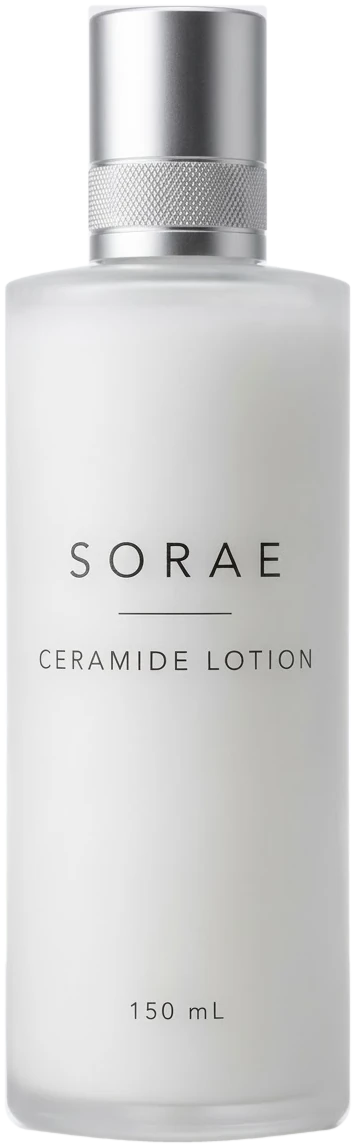
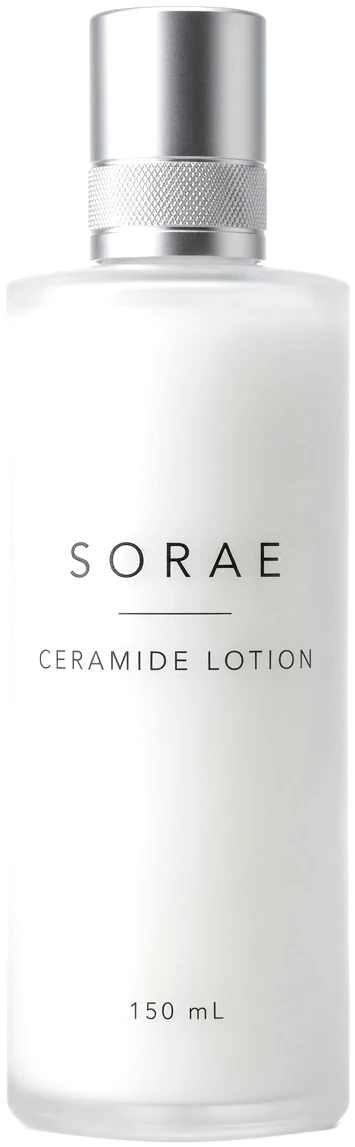
SORAE: ヒーローのボトルを明るく大きく、光と見出しの色で印象を強化
Claude-Session: https://claude.ai/code/session_011G5VfBtan1DrH8gQ92yT6T

diff --git a/works/lp-lotion/index.html b/works/lp-lotion/index.html
@@ -50,7 +50,7 @@ header nav{display:flex;gap:30px;font-size:11.5px;color:var(--ink2)}
 .hero .cta{margin-top:44px;display:flex;align-items:center;gap:20px;flex-wrap:wrap;opacity:0;transition:opacity 1.4s .9s}
 .hero .cta small{font-size:11.5px;color:var(--sub)}
 .bwrap{position:relative;display:flex;justify-content:center}
-.bwrap .btl{height:min(66vh,520px);width:auto;filter:drop-shadow(0 50px 40px rgba(80,100,160,.22));animation:fl 7s ease-in-out infinite;opacity:0;transform:translateY(40px);transition:opacity 1.6s .3s,transform 1.6s .3s}
+.bwrap .btl{position:relative;z-index:1;height:min(72vh,600px);width:auto;filter:drop-shadow(0 50px 40px rgba(80,100,160,.22));animation:fl 7s ease-in-out infinite;opacity:0;transform:translateY(40px);transition:opacity 1.6s .3s,transform 1.6s .3s}
 .on .bwrap .btl{opacity:1;transform:none}
 @keyframes fl{50%{translate:0 -14px}}
 .tags{position:absolute;inset:0}
@@ -145,11 +145,11 @@ footer .logo{font-size:16px;color:var(--ink);margin-bottom:6px}
 @media (prefers-reduced-motion:reduce){*{animation:none!important}.rv,.hero h1 span b,.hero p.lead,.hero .cta,.bwrap .btl{opacity:1!important;transform:none!important;transition:none!important}}
 @media (max-width:860px){
  .sample{left:auto;right:14px;top:22px;bottom:auto;padding:4px 10px}.sample span{display:none}
- .hero h1{font-size:clamp(24px,7.4vw,32px);letter-spacing:.1em}.hero h1 span b{white-space:nowrap}
+ .hero h1{font-size:clamp(26px,7.9vw,34px);letter-spacing:.08em}.hero h1 span b{white-space:nowrap}
  .w{padding:0 24px}header{top:28px}header .w{padding:0 24px}header nav{display:none}
  .hero .w{grid-template-columns:1fr;text-align:center;padding-top:100px;padding-bottom:70px}
  .hero p.lead{margin-left:auto;margin-right:auto}.hero .cta{justify-content:center}
- .bwrap{order:-1;margin-bottom:10px}.bwrap .btl{height:300px;width:auto}
+ .bwrap{order:-1;margin-bottom:10px}.bwrap .btl{height:min(52vh,380px);width:auto}
  .tags span{font-size:10px;padding:5px 11px}.tags span:nth-child(1){left:2%}.tags span:nth-child(2){right:2%}
  .ripple{right:50%;top:30%;width:340px;height:340px;margin:-170px -170px 0 0}
  section{padding:110px 0}.sh{margin-bottom:50px}
@@ -246,6 +246,11 @@ footer .logo{font-size:16px;color:var(--ink);margin-bottom:6px}
 .qc b{display:block;margin-top:16px;font-weight:200;font-size:clamp(20px,2.2vw,28px);line-height:1.7;letter-spacing:.1em}
 .qc p{margin:14px 0 0;font-size:12.5px;color:#b9c0cf;line-height:2}
 @media (max-width:860px){.qc{grid-template-columns:1fr;gap:26px;margin-top:56px}.qc figcaption{text-align:center}}
+.bwrap:before{content:"";position:absolute;left:50%;top:50%;width:min(110%,560px);aspect-ratio:1;transform:translate(-50%,-48%);border-radius:50%;background:radial-gradient(closest-side,rgba(255,255,255,.95),rgba(255,255,255,.55) 45%,rgba(207,227,245,0) 72%);pointer-events:none;animation:glow 6s ease-in-out infinite}
+.bwrap:after{content:"";position:absolute;left:50%;bottom:2%;width:46%;height:26px;transform:translateX(-50%);border-radius:50%;background:radial-gradient(closest-side,rgba(80,100,160,.28),transparent);filter:blur(4px);animation:shd 7s ease-in-out infinite;pointer-events:none}
+@keyframes glow{50%{opacity:.75;transform:translate(-50%,-48%) scale(1.06)}}
+@keyframes shd{50%{transform:translateX(-50%) scale(.82);opacity:.7}}
+.hero h1 span:nth-child(2) b{color:#4a5fb8}
 </style>
 </head>
 <body>
